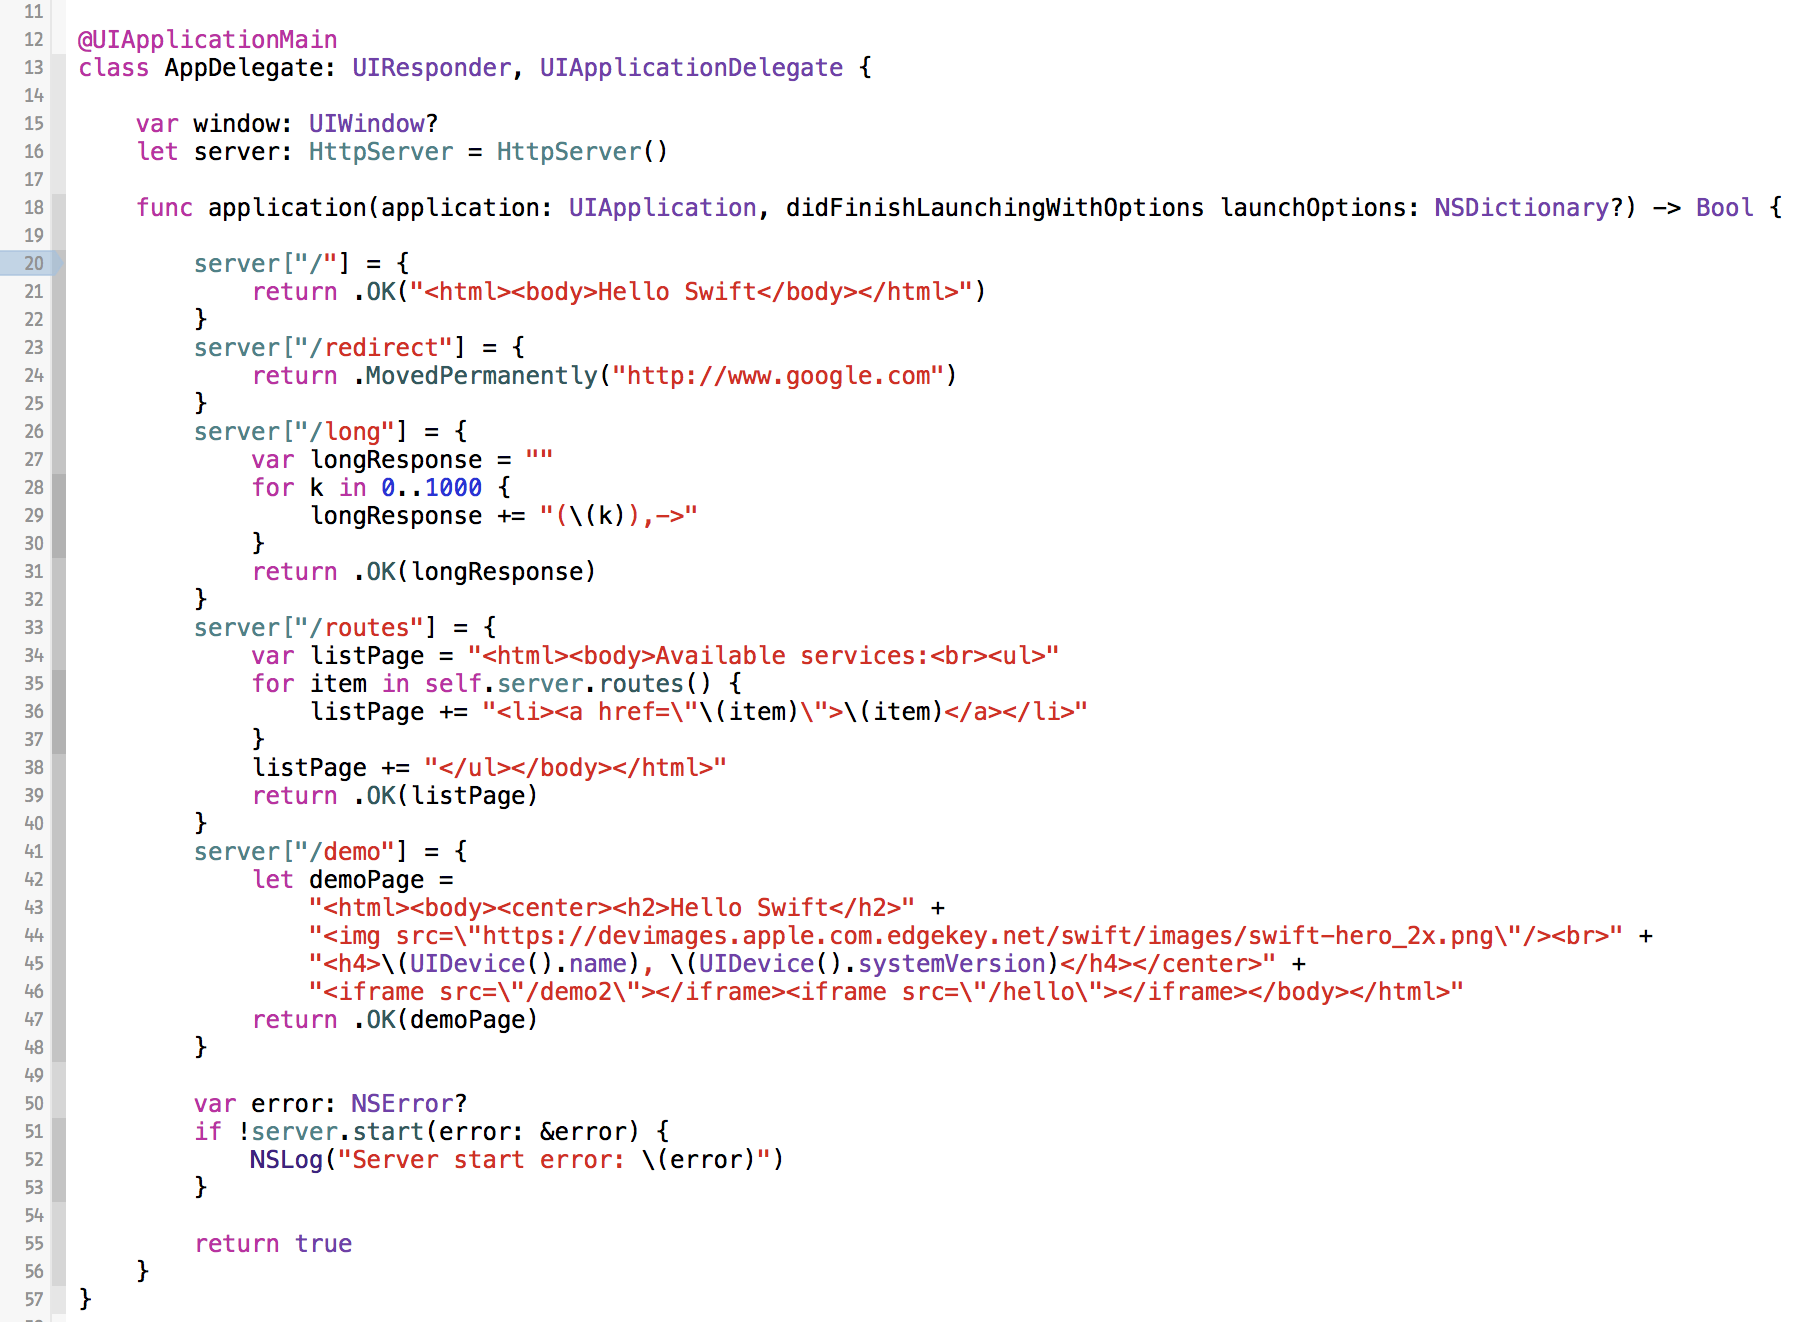
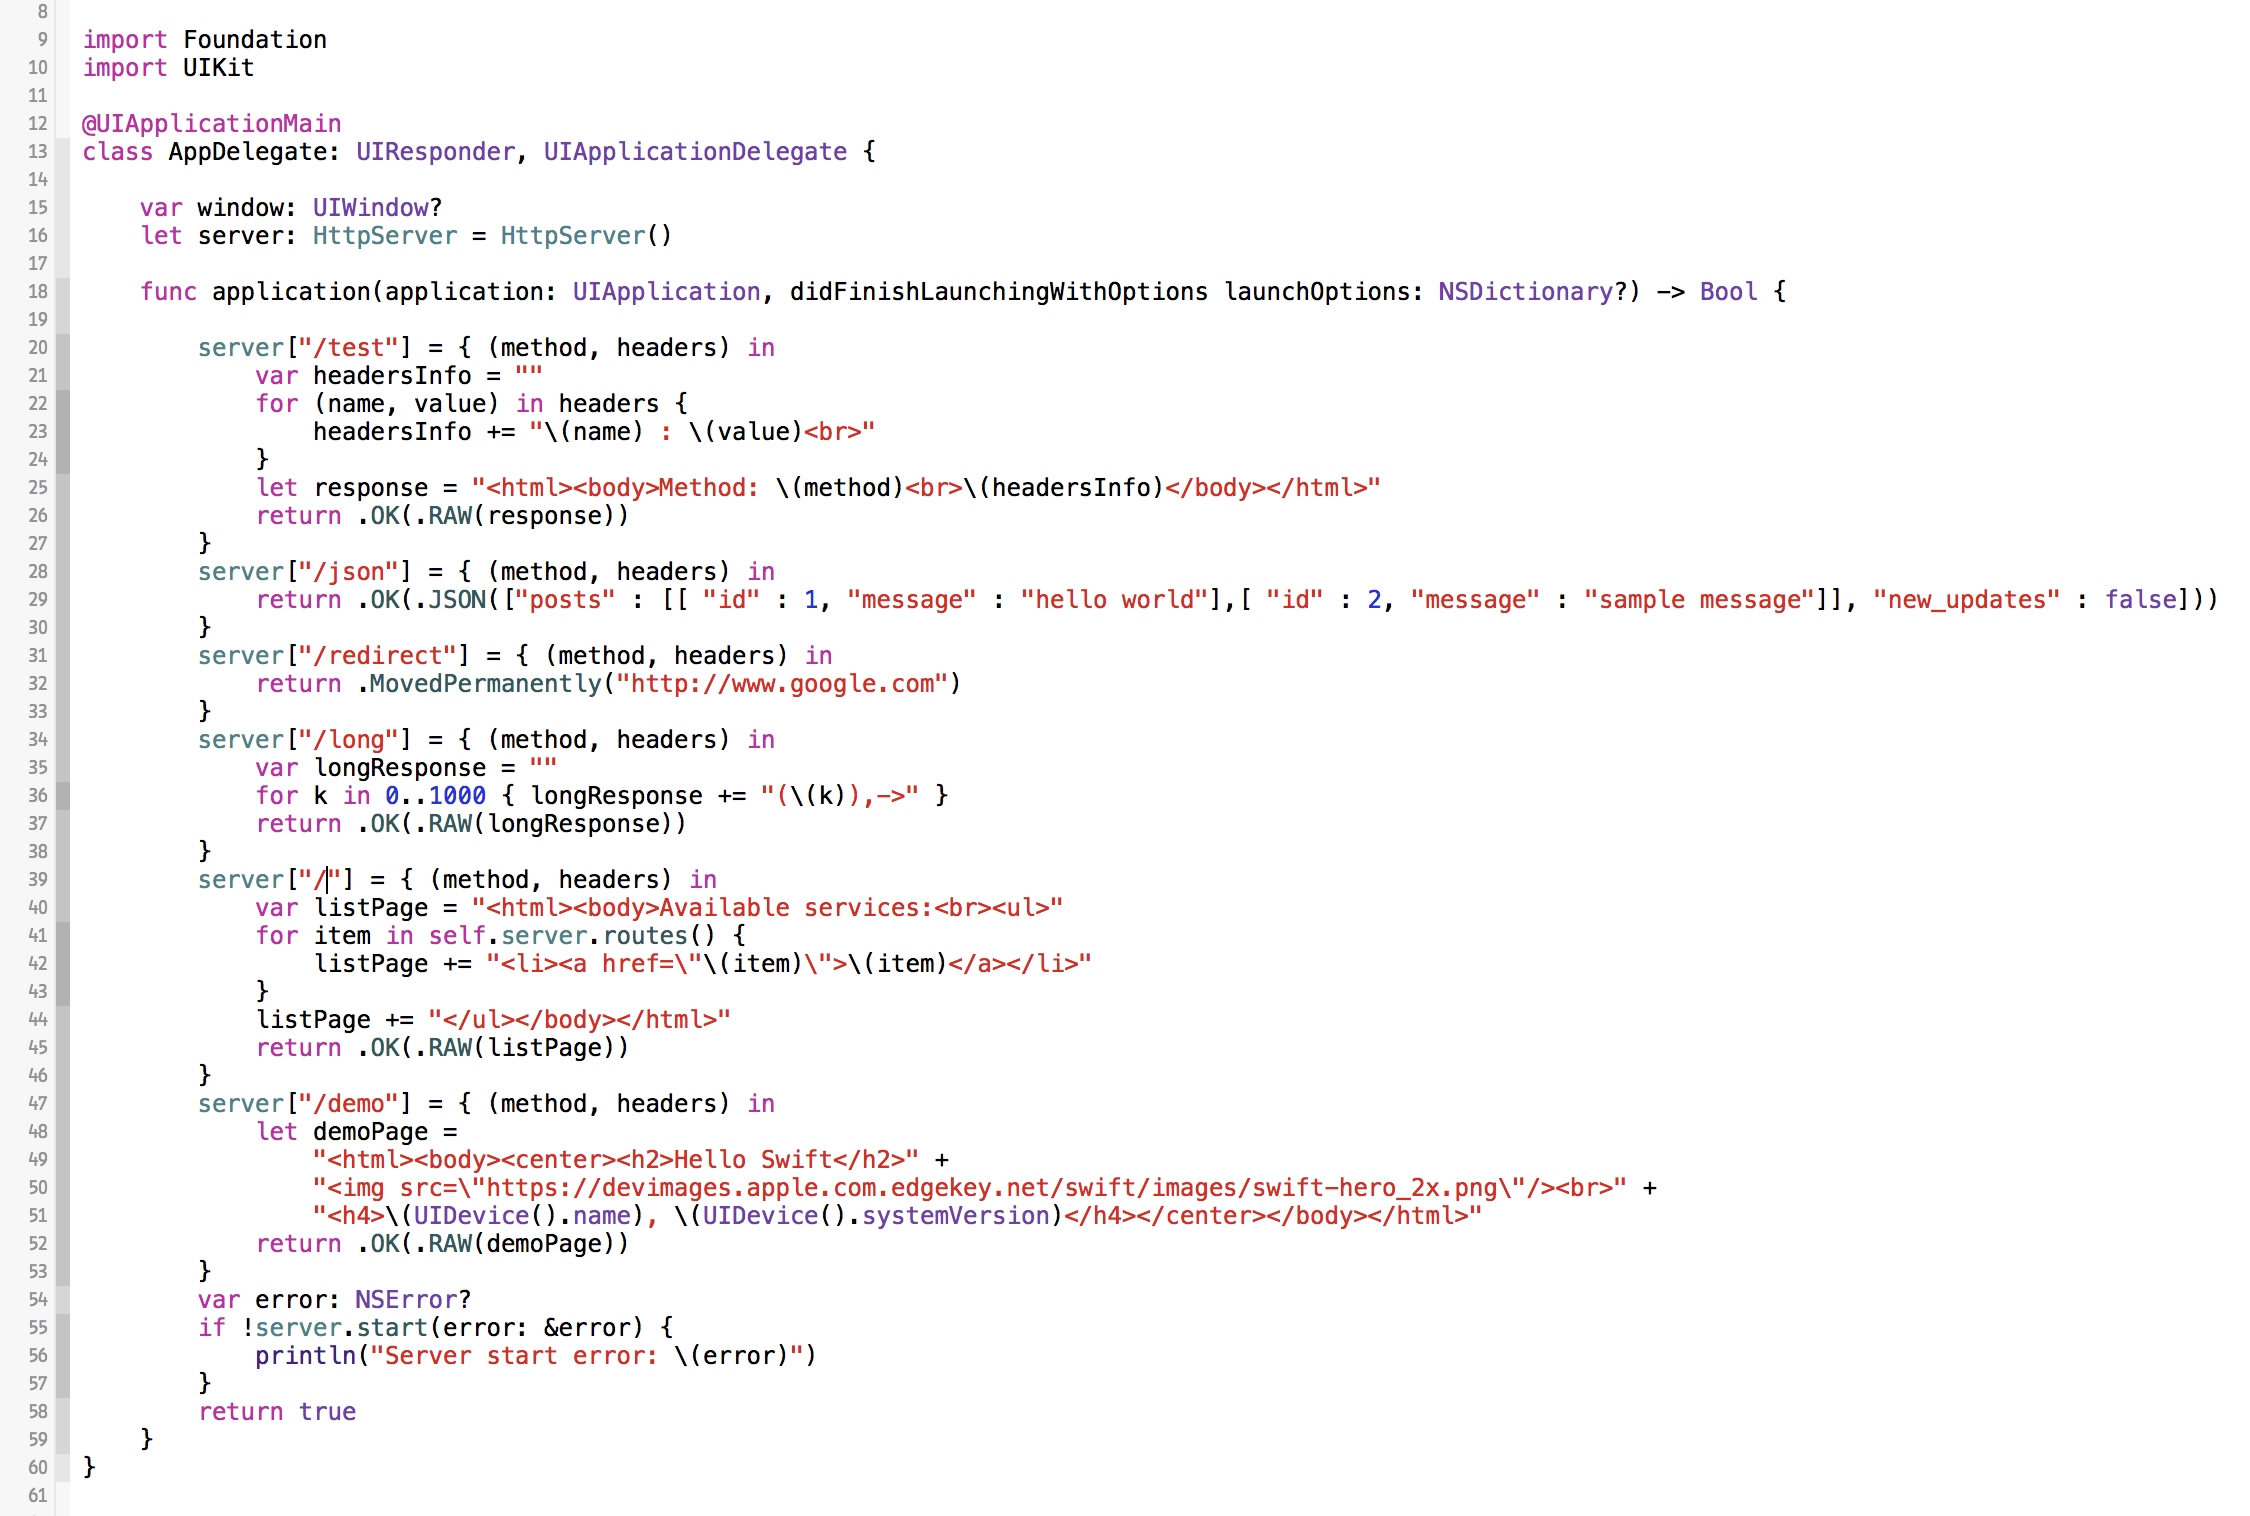
Updated Github cover image. Added /test resource to present details of an request.

diff --git a/Swifter/AppDelegate.swift b/Swifter/AppDelegate.swift
@@ -17,8 +17,14 @@ class AppDelegate: UIResponder, UIApplicationDelegate {
     
     func application(application: UIApplication, didFinishLaunchingWithOptions launchOptions: NSDictionary?) -> Bool {
         
-        
-        var c: AnyClass?
+        server["/test"] = { (method, headers) in
+            var headersInfo = ""
+            for (name, value) in headers {
+                headersInfo += "\(name) : \(value)<br>"
+            }
+            let response = "<html><body>Method: \(method)<br>\(headersInfo)</body></html>"
+            return .OK(.RAW(response))
+        }
         server["/json"] = { (method, headers) in
             return .OK(.JSON(["posts" : [[ "id" : 1, "message" : "hello world"],[ "id" : 2, "message" : "sample message"]], "new_updates" : false]))
         }
@@ -30,7 +36,7 @@ class AppDelegate: UIResponder, UIApplicationDelegate {
             for k in 0..1000 { longResponse += "(\(k)),->" }
             return .OK(.RAW(longResponse))
         }
-        server["/routes"] = { (method, headers) in
+        server["/"] = { (method, headers) in
             var listPage = "<html><body>Available services:<br><ul>"
             for item in self.server.routes() {
                 listPage += "<li><a href=\"\(item)\">\(item)</a></li>"
@@ -42,16 +48,13 @@ class AppDelegate: UIResponder, UIApplicationDelegate {
             let demoPage =
                 "<html><body><center><h2>Hello Swift</h2>" +
                 "<img src=\"https://devimages.apple.com.edgekey.net/swift/images/swift-hero_2x.png\"/><br>" +
-                "<h4>\(UIDevice().name), \(UIDevice().systemVersion)</h4></center>" +
-                "<iframe src=\"/routes\"></iframe><iframe src=\"/hello\"></iframe></body></html>"
+                "<h4>\(UIDevice().name), \(UIDevice().systemVersion)</h4></center></body></html>"
             return .OK(.RAW(demoPage))
         }
-        
         var error: NSError?
         if !server.start(error: &error) {
             println("Server start error: \(error)")
         }
-        
         return true
     }
 }
